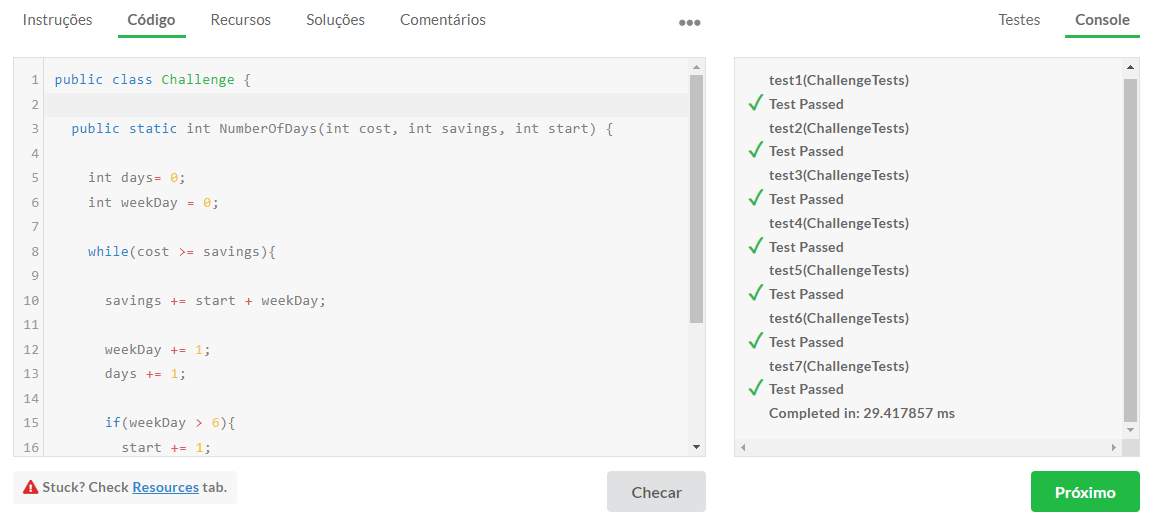
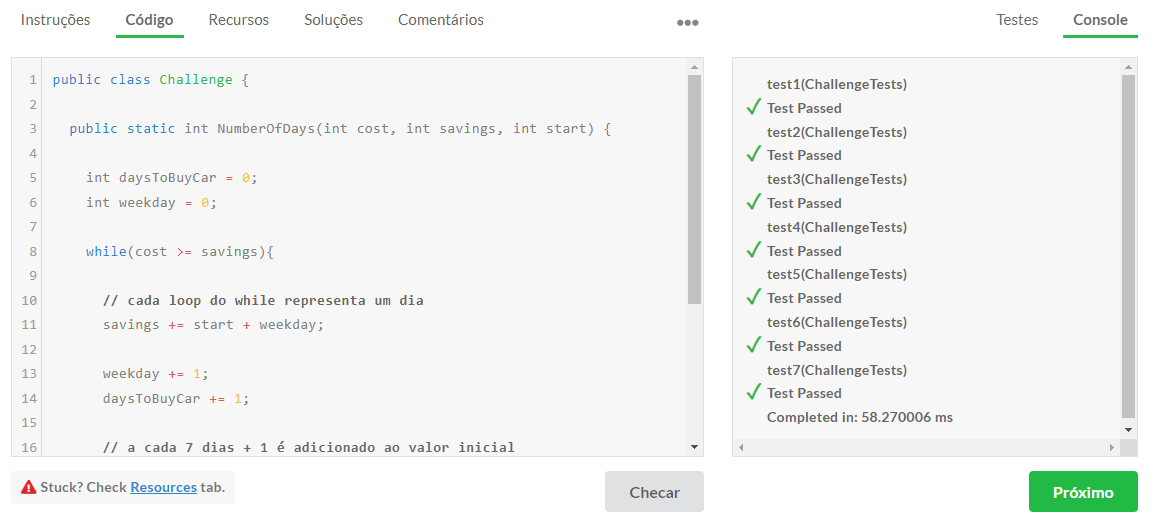
Add files via upload

diff --git a/Challenge.java b/Challenge.java
@@ -2,22 +2,24 @@ public class Challenge {
 	
   public static int NumberOfDays(int cost, int savings, int start) {
 	  
-		int days= 0;
-		int weekDay = 0;
+		int daysToBuyCar = 0;
+		int weekday = 0;
 		
 		while(cost >= savings){
 			
-			savings += start + weekDay;
+			// cada loop do while representa um dia
+			savings += start + weekday;
 			
-			weekDay += 1;
-			days += 1;
+			weekday += 1;
+			daysToBuyCar += 1;
 			
-			if(weekDay > 6){
+			// a cada 7 dias + 1 é adicionado ao valor inicial
+			if(weekday > 6){
 				start += 1;
-				weekDay = 0;
+				weekday = 0;
 			}
 			
 		}
-		return days;
+		return daysToBuyCar;
 	}
 }
